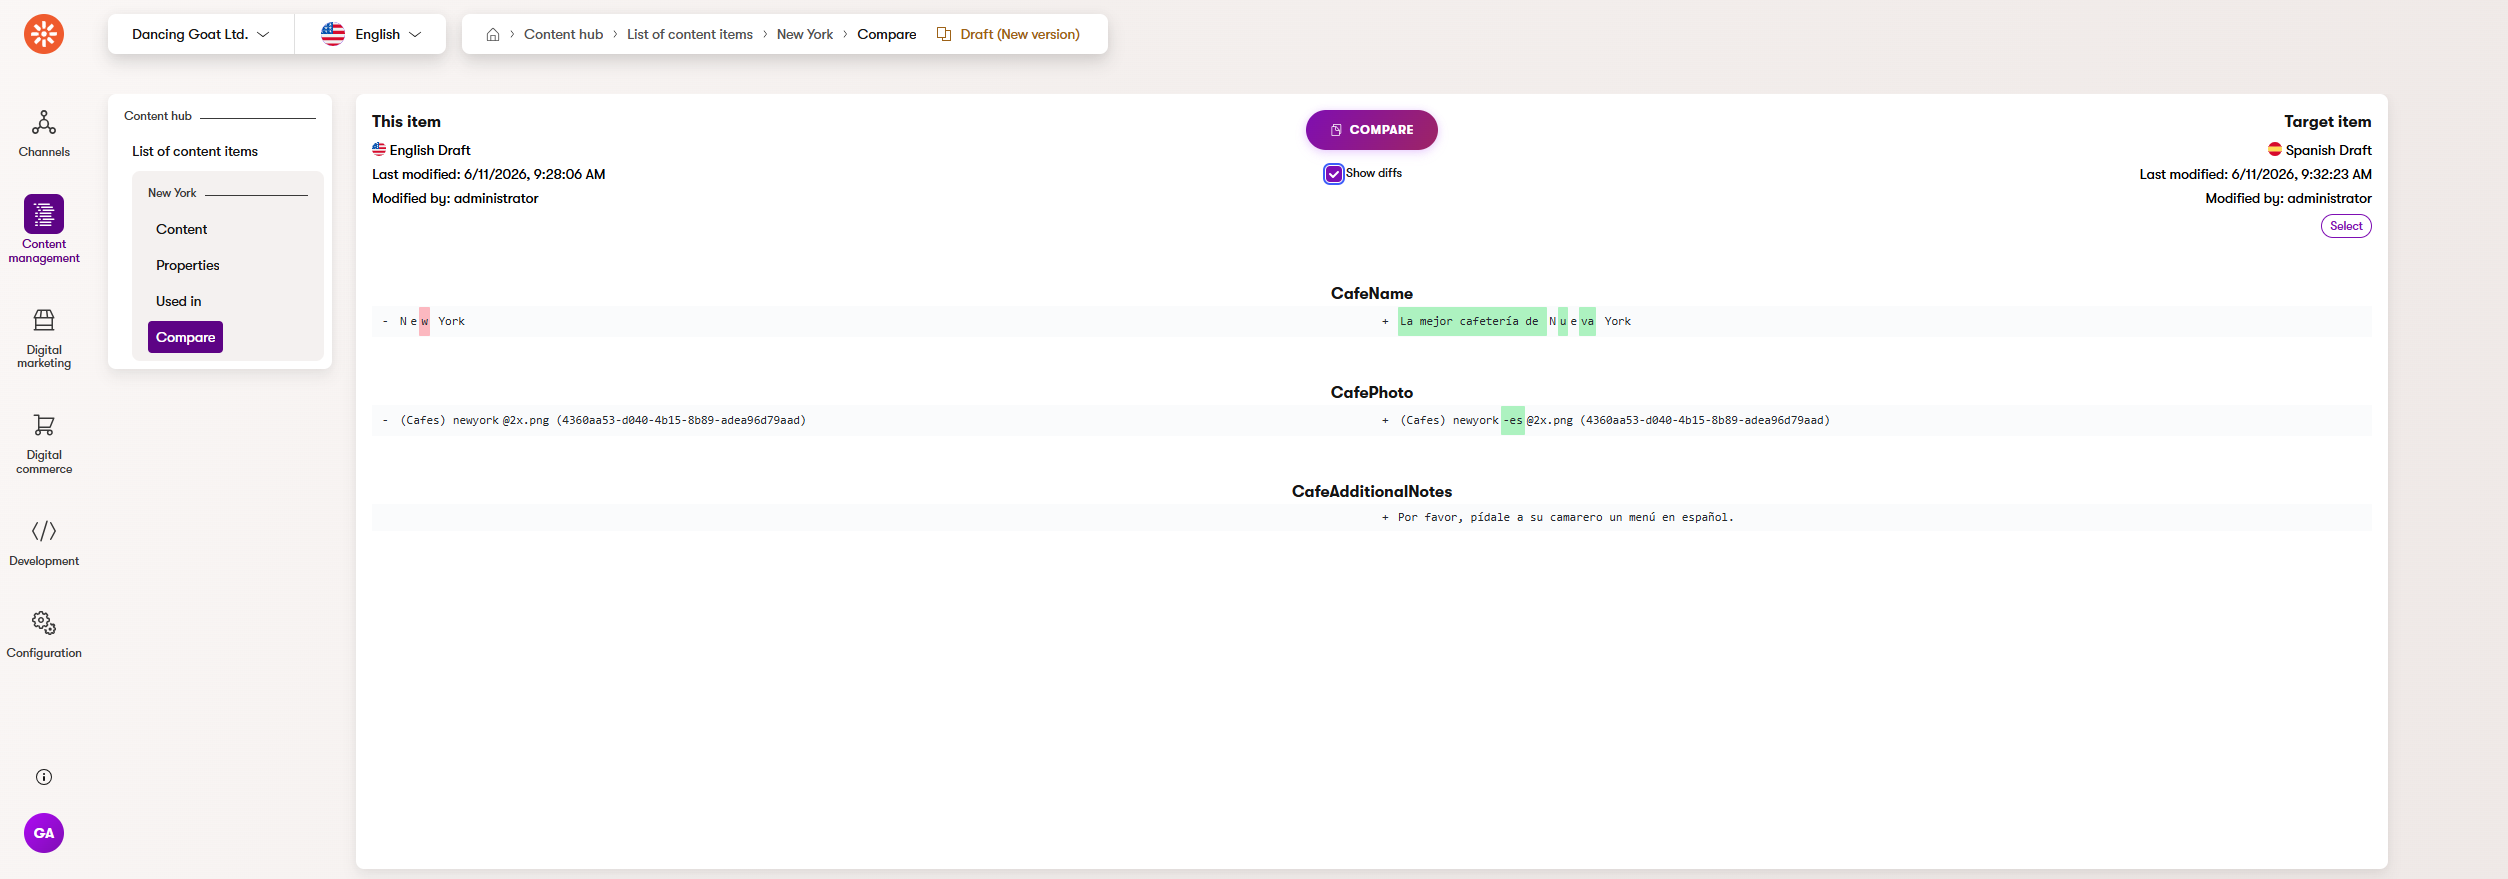
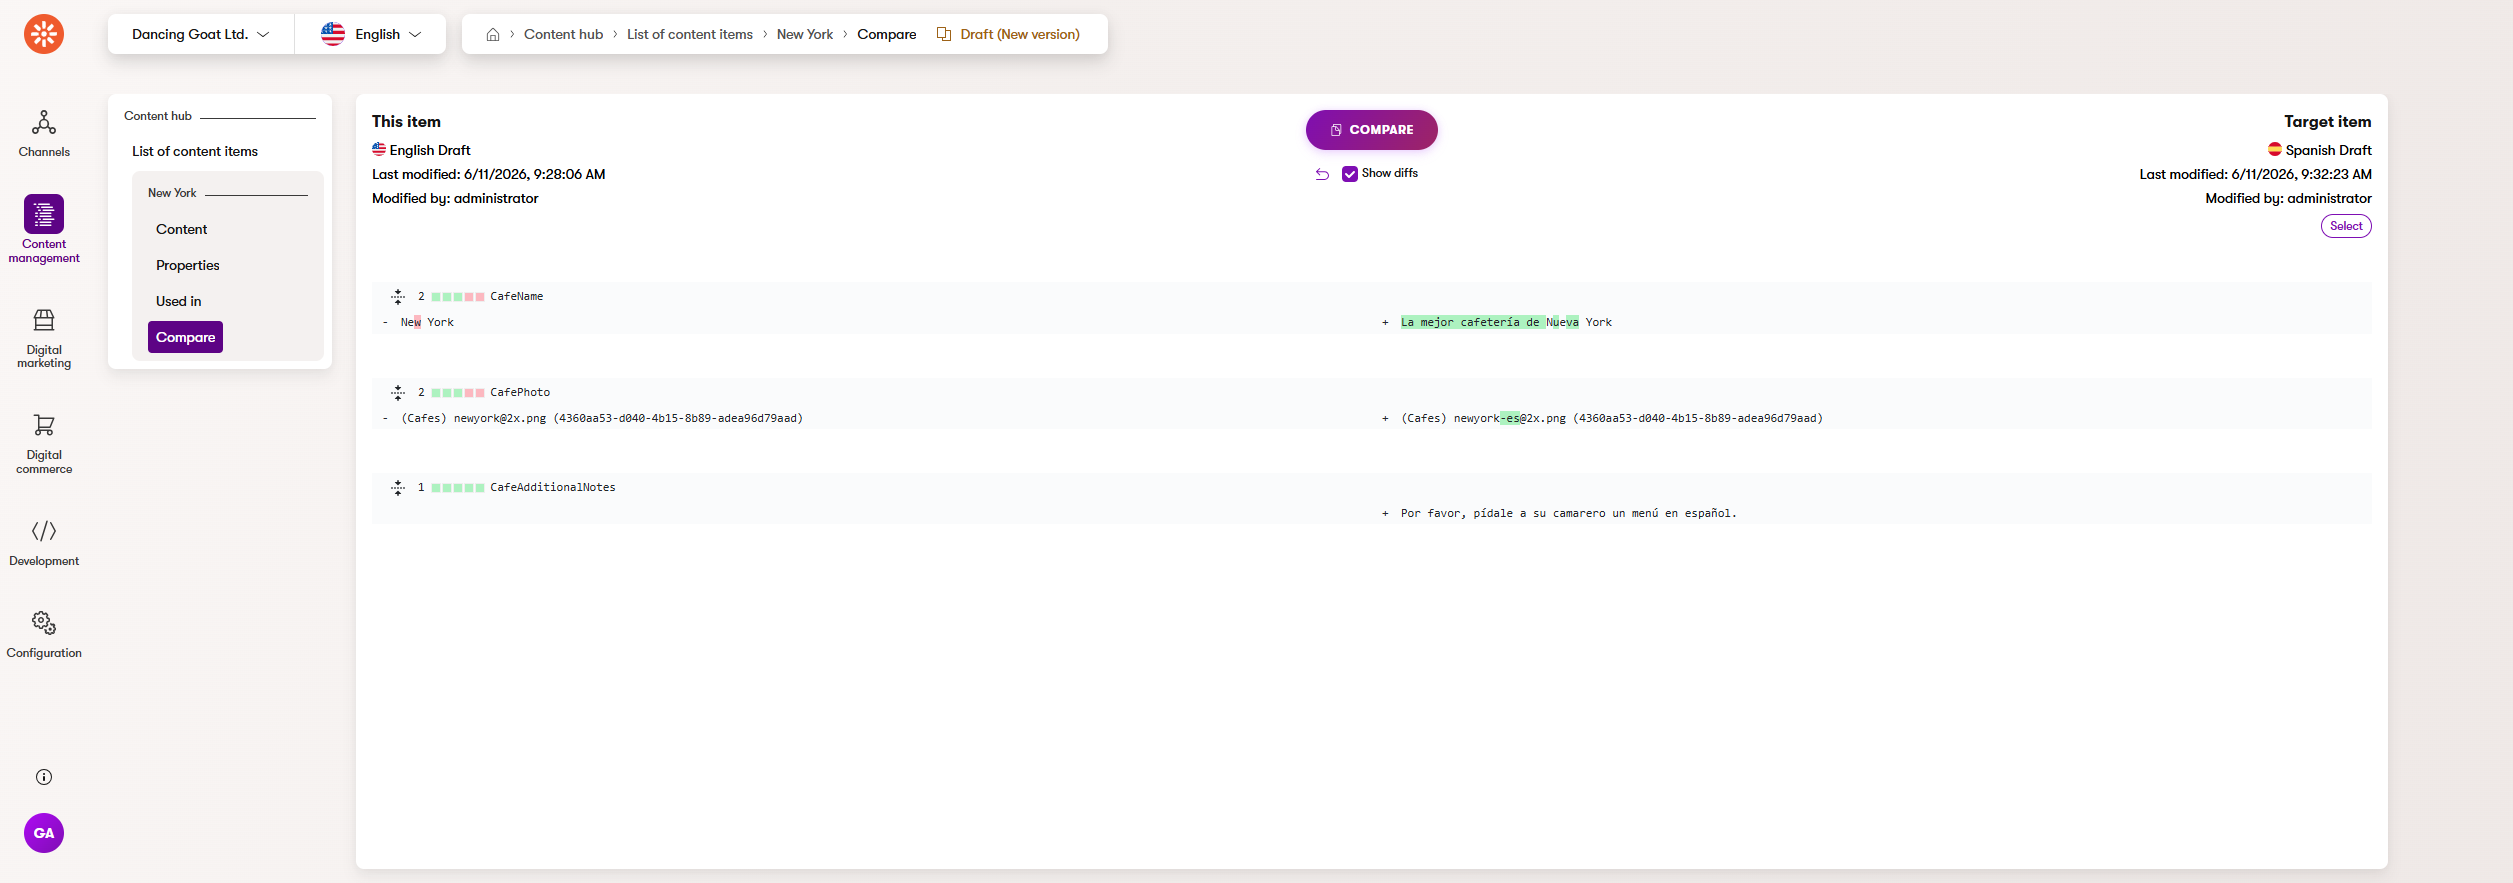
update docs, set version 1.3.0

diff --git a/src/Client/src/templates/ContentItemCompareTabTemplate.tsx b/src/Client/src/templates/ContentItemCompareTabTemplate.tsx
@@ -45,7 +45,7 @@ export const ContentItemCompareTabTemplate = (props: ContentItemComparisonProper
         const data = await executeCommand<ComparableContentItemData, ContentItemCompareRequest>(Commands.Compare, compareRequest);
         setComparableData(data);
     };
-    console.log(isReversed);
+
     return (
         <>
             <Paper fullHeight>

diff --git a/src/Models/BasicContentItem.cs b/src/Models/BasicContentItem.cs
@@ -12,15 +12,18 @@ public class BasicContentItem
     /// </summary>
     public ContentLanguage? Language { get; init; }
 
+
     /// <summary>
     /// The version status of the content item.
     /// </summary>
     public VersionStatus VersionStatus { get; init; }
 
+
     /// <summary>
     /// The date and time when the content item was last modified.
     /// </summary>
     public DateTime LastModified { get; init; }
+
 
     /// <summary>
     /// The name of the user who last modified the content item.

diff --git a/docs/Usage-Guide.md b/docs/Usage-Guide.md
@@ -1,5 +1,26 @@
 # Usage Guide
 
+## Configuring options
+
+If you would like to customize options related to the Compare module visuals and enabled features, you can modify your [startup code](../README.md#quick-start):
+
+```cs
+builder.Services.AddXperienceCompare(options =>
+{
+    options.ExpandAllLines = true;
+});
+```
+
+Below is a list of all available options and their default value:
+
+| Name             | Default value | Description                                                                                                            |
+| ---------------- | ------------- | ---------------------------------------------------------------------------------------------------------------------- |
+| FontSize         | "12px"        | The size of the font used when displaying comparison field values                                                      |
+| ExpandAllLines   | false         | If `true`, headers which allow for collapsing/expanding unchanged lines are hidden, and all lines are always displayed |
+| ShowLineNumbers  | false         | If `true`, line numbers (rows) are displayed in comparison field values                                                |
+| EnableWebPages   | true          | If `true`, users can [compare web pages](#comparing-web-pages)                                                         |
+| EnableContentHub | true          | If `true`, users can [compare content items](#comparing-content-items)                                                 |
+
 ## Comparing web pages
 
 To compare web page versions, first select a page in your channel's content tree. On the right side-panel, click the new tab called "Compare." On this page, you will see the current web page details on the left half, and the desired **Target** version on the right half.
@@ -11,7 +32,7 @@ Click the **Select** button on the right side of the page to select the target p
 When the comparison finishes, you will see the following information:
 
 - Content type fields: Only fields with _different_ values in the source and target versions are shown. Fields with an exact match are hidden.
-- Page builder widgets: The full, unformatted JSON data of each page version will be shown only if the values are different. If the page build widget JSON matches, this section is hidden.
+- Page builder widgets: The full, unformatted JSON data of each page version will be shown only if the values are different. If the page builder widget JSON matches, this section is hidden.
 
 ## Comparing content items
 
@@ -29,5 +50,4 @@ When the comparison finishes, you will see the following information:
 
 After you've run the comparison, the data is shown in an "informational" mode. That is, the values are simply displayed as-is for your review. If you'd like to highlight the differences between the source and target values, click the **Show diffs** checkbox at the top of the page.
 
-> **Note:** The diffing tool assumes that data on the left is "old" and on the right is "new." While this _may_ be the case in some comparisons, the data on the left will not always be old, for example when comparing a current Draft to a Published version.  
-> Improvements to this functionality may be made in the future, but please keep in mind that the "deletes" and "additions" highlighting might be reversed in the current version. This is visual only, and has no impact on detecting page differences.
+The diffing tool assumes that data on the left is "old" and on the right is "new." While this _may_ be the case in some comparisons, the data on the left will not always be old, for example when comparing a current Draft to a Published version. This behavior is only visual in nature and does not affect comparisons, but if you wish to reverse the order of the comparison for more accurate highlighting of diffs, you can click the **Reverse order** button next to the "Show diffs" button.
